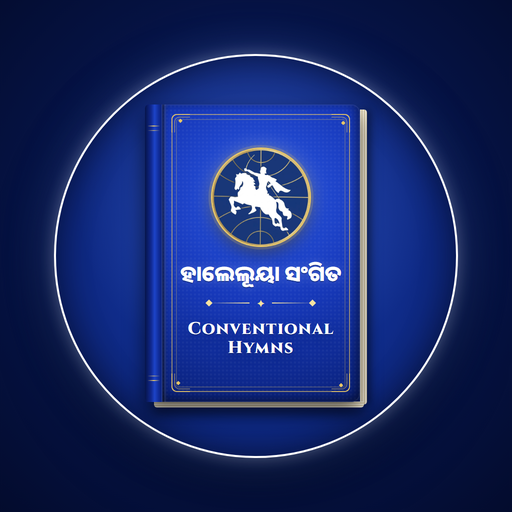
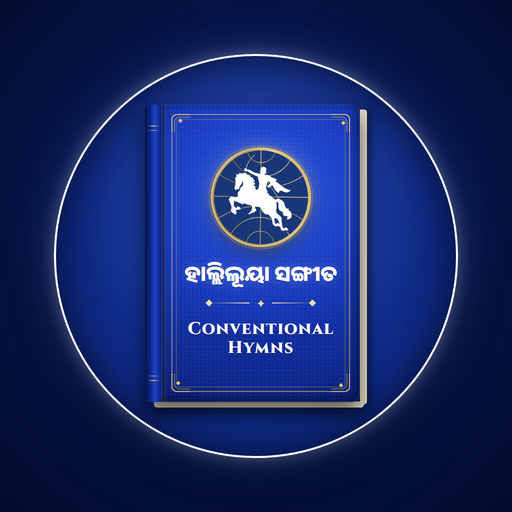
App name Halleluiah Songitho; Odia title spelled ହାଲ୍ଲିଲୂୟା ସଙ୍ଗୀତ
The installed app, browser tab and home-screen label now read
Halleluiah Songitho. The Odia title on the front page and the logo
uses the corrected spelling.

Changed region(s): [[0.3438, 0.5, 0.6875, 0.5625]]

diff --git a/index.html b/index.html
@@ -7,15 +7,17 @@
   <meta name="apple-mobile-web-app-capable" content="yes">
   <meta name="mobile-web-app-capable" content="yes">
   <meta name="description" content="Conventional Hymns — hymn book in Telugu, Odia, English, Hindi, Marathi and Bangla.">
-  <title>Conventional Hymns</title>
+  <title>Halleluiah Songitho</title>
+  <meta name="apple-mobile-web-app-title" content="Halleluiah Songitho">
+  <meta name="application-name" content="Halleluiah Songitho">
 
-  <link rel="icon" href="icon-192.png?v=3" type="image/png" sizes="192x192">
-  <link rel="apple-touch-icon" href="apple-touch-icon.png?v=3">
-  <link rel="manifest" href="manifest.webmanifest?v=3">
+  <link rel="icon" href="icon-192.png?v=4" type="image/png" sizes="192x192">
+  <link rel="apple-touch-icon" href="apple-touch-icon.png?v=4">
+  <link rel="manifest" href="manifest.webmanifest?v=4">
   <link rel="preconnect" href="https://fonts.googleapis.com">
   <link rel="preconnect" href="https://fonts.gstatic.com" crossorigin>
   <link href="https://fonts.googleapis.com/css2?family=Cinzel:wght@600;800&family=Inter:wght@400;500;600;700&family=Noto+Sans+Bengali:wght@400;600;700&family=Noto+Sans+Devanagari:wght@400;600;700&family=Noto+Sans+Oriya:wght@400;600;800&family=Noto+Sans+Telugu:wght@400;600;700&display=swap" rel="stylesheet">
-  <link rel="stylesheet" href="styles.css?v=19">
+  <link rel="stylesheet" href="styles.css?v=20">
 </head>
 <body>
 
@@ -36,7 +38,7 @@
   <main id="book" class="book">
 
     <!-- 1 · Splash -->
-    <section class="page splash is-active" id="splash" aria-label="Conventional Hymns — ହାଲେଲୂୟା ସଂଗିତ">
+    <section class="page splash is-active" id="splash" aria-label="Conventional Hymns — ହାଲ୍ଲିଲୂୟା ସଙ୍ଗୀତ">
       <div class="halo">
         <div class="cover3d">
           <span class="cover3d__edge cover3d__edge--right" aria-hidden="true"></span>
@@ -46,7 +48,7 @@
             <div class="splash__frame" aria-hidden="true"></div>
             <div class="splash__inner">
               <span class="cover3d__emblem"><img src="logo.webp" alt="Emblem" width="1024" height="1024" decoding="async" fetchpriority="high"></span>
-              <p class="cover3d__title" lang="or">ହାଲେଲୂୟା ସଂଗିତ</p>
+              <p class="cover3d__title" lang="or">ହାଲ୍ଲିଲୂୟା ସଙ୍ଗୀତ</p>
               <div class="splash__rule" aria-hidden="true"><span></span><i>✦</i><span></span></div>
               <h1 class="splash__title"><span>Conventional</span> <span>Hymns</span></h1>
             </div>
@@ -280,9 +282,9 @@
 
   <div class="toast" id="toast" role="status" aria-live="polite"></div>
 
-  <script src="songs.js?v=19"></script>
-  <script src="pronounce-en.js?v=19"></script>
-  <script src="pronounce.js?v=19"></script>
-  <script src="app.js?v=19"></script>
+  <script src="songs.js?v=20"></script>
+  <script src="pronounce-en.js?v=20"></script>
+  <script src="pronounce.js?v=20"></script>
+  <script src="app.js?v=20"></script>
 </body>
 </html>

diff --git a/sw.js b/sw.js
@@ -1,18 +1,18 @@
 /* Conventional Hymns — offline support.
    When you change app files, bump the ?v= numbers in index.html
    and here, and change CACHE, so phones pick up the new version. */
-const CACHE = "ch-v20";
+const CACHE = "ch-v21";
 const CORE = [
   "./",
   "index.html",
-  "styles.css?v=19",
-  "songs.js?v=19",
-  "pronounce-en.js?v=19",
-  "pronounce.js?v=19",
-  "app.js?v=19",
-  "icon-192.png?v=3",
+  "styles.css?v=20",
+  "songs.js?v=20",
+  "pronounce-en.js?v=20",
+  "pronounce.js?v=20",
+  "app.js?v=20",
+  "icon-192.png?v=4",
   "logo.webp",
-  "manifest.webmanifest?v=3"
+  "manifest.webmanifest?v=4"
 ];
 
 self.addEventListener("install", (e) => {

diff --git a/styles.css b/styles.css
@@ -382,7 +382,7 @@ button:disabled { cursor: default; }
   transform: scale(.7);
 }
 .cover3d__emblem img { display: block; width: 100%; height: 100%; transform: scale(1.006); }
-.cover3d__title {           /* ହାଲେଲୂୟା ସଂଗିତ — as on the book */
+.cover3d__title {           /* ହାଲ୍ଲିଲୂୟା ସଙ୍ଗୀତ — as on the book */
   margin: calc(var(--u) * 3.4) 0 0;
   font-family: "Noto Sans Oriya", var(--font-ui);
   font-weight: 800;
